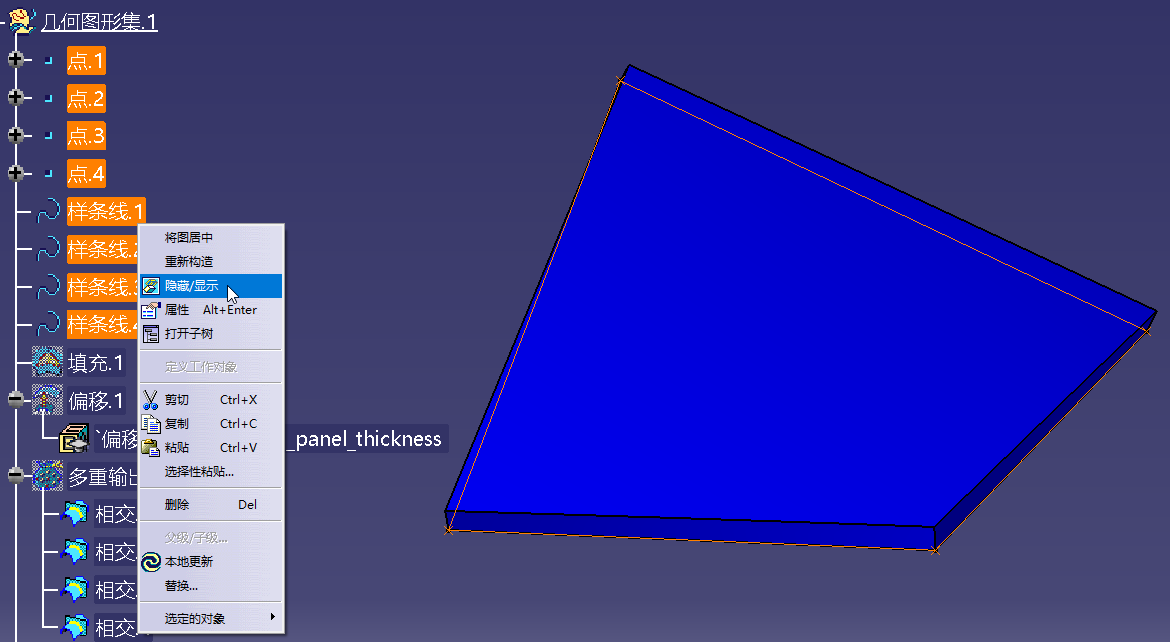
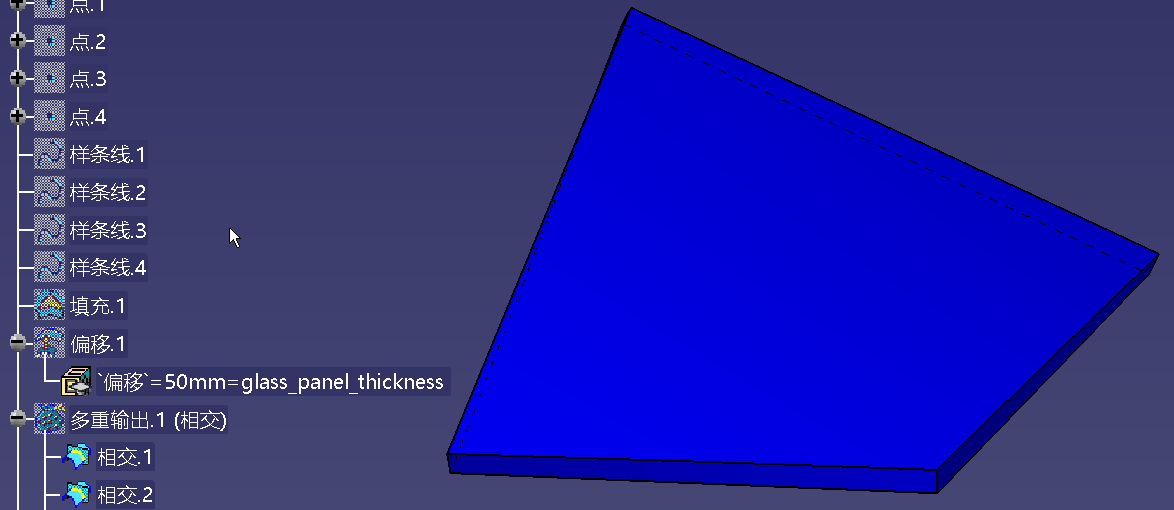
revise

Changed region(s): [[0.0, 0.0, 1.0, 1.0], [0.4615, 0.2941, 0.4923, 0.4118]]

diff --git a/chapters/章9-用CATIA创建参数化外表皮/练习5-创建四边形玻璃嵌板并封装为超级副本.md b/chapters/章9-用CATIA创建参数化外表皮/练习5-创建四边形玻璃嵌板并封装为超级副本.md
@@ -115,6 +115,12 @@
 ![](/images/用CATIA创建参数化外表皮/创建四边形玻璃嵌板并封装为超级副本/8.参数值和公式变化导致对应构件尺寸相应变化/8-4.png)
 ![](/images/用CATIA创建参数化外表皮/创建四边形玻璃嵌板并封装为超级副本/8.参数值和公式变化导致对应构件尺寸相应变化/8-5.png)
 
-### 10. 
-![](/images/用CATIA创建参数化外表皮/创建四边形玻璃嵌板并封装为超级副本/9.制作超级副本/1-1.png)
-#### 
+### 10. 按下键盘上的“Ctrl”键，单击“点.1, 点.2, 点.3, 点.4, 样条线.1, 样条线.2, 样条线.3, 样条线.4”, 随后右击，在弹出的对话框中单击“隐藏/显示”。这些元素在视图中变为不可见。
+![](/images/用CATIA创建参数化外表皮/创建四边形玻璃嵌板并封装为超级副本/9.制作超级副本/9-1.png)
+![](/images/用CATIA创建参数化外表皮/创建四边形玻璃嵌板并封装为超级副本/9.制作超级副本/9-2.png)
+
+#### 单击功能区里的“插入”，选择“知识工程模块”中的“超级副本”选项，随后弹出“定义超级副本”的对话框。把名称设为“glass_panel”。单击结构树中的"接合.1, 填充.5, 填充.4, 填充.3, 填充.2, 直线4，直线3，直线2，直线1，多重输出.1（相交）, 偏移.1, 填充.1, glass_panel_thickness“。这些被选定的全部元素将作为超级副本的内部构成。此时，“输入”列表将自动识别并显示需要从外部指定的几何参考（“点.4, 点.3, 点.2, 点.1, 样条线.1, 样条线.2, 样条线.3, 样条线.4”）。单击下方的“确定“选项。结构树中会出现一个名为"glass_panel"的超级副本。
+![](/images/用CATIA创建参数化外表皮/创建四边形玻璃嵌板并封装为超级副本/9.制作超级副本/9-3.png)
+![](/images/用CATIA创建参数化外表皮/创建四边形玻璃嵌板并封装为超级副本/9.制作超级副本/9-4.png)
+![](/images/用CATIA创建参数化外表皮/创建四边形玻璃嵌板并封装为超级副本/9.制作超级副本/9-5.png)
+![](/images/用CATIA创建参数化外表皮/创建四边形玻璃嵌板并封装为超级副本/9.制作超级副本/9-6.png)
